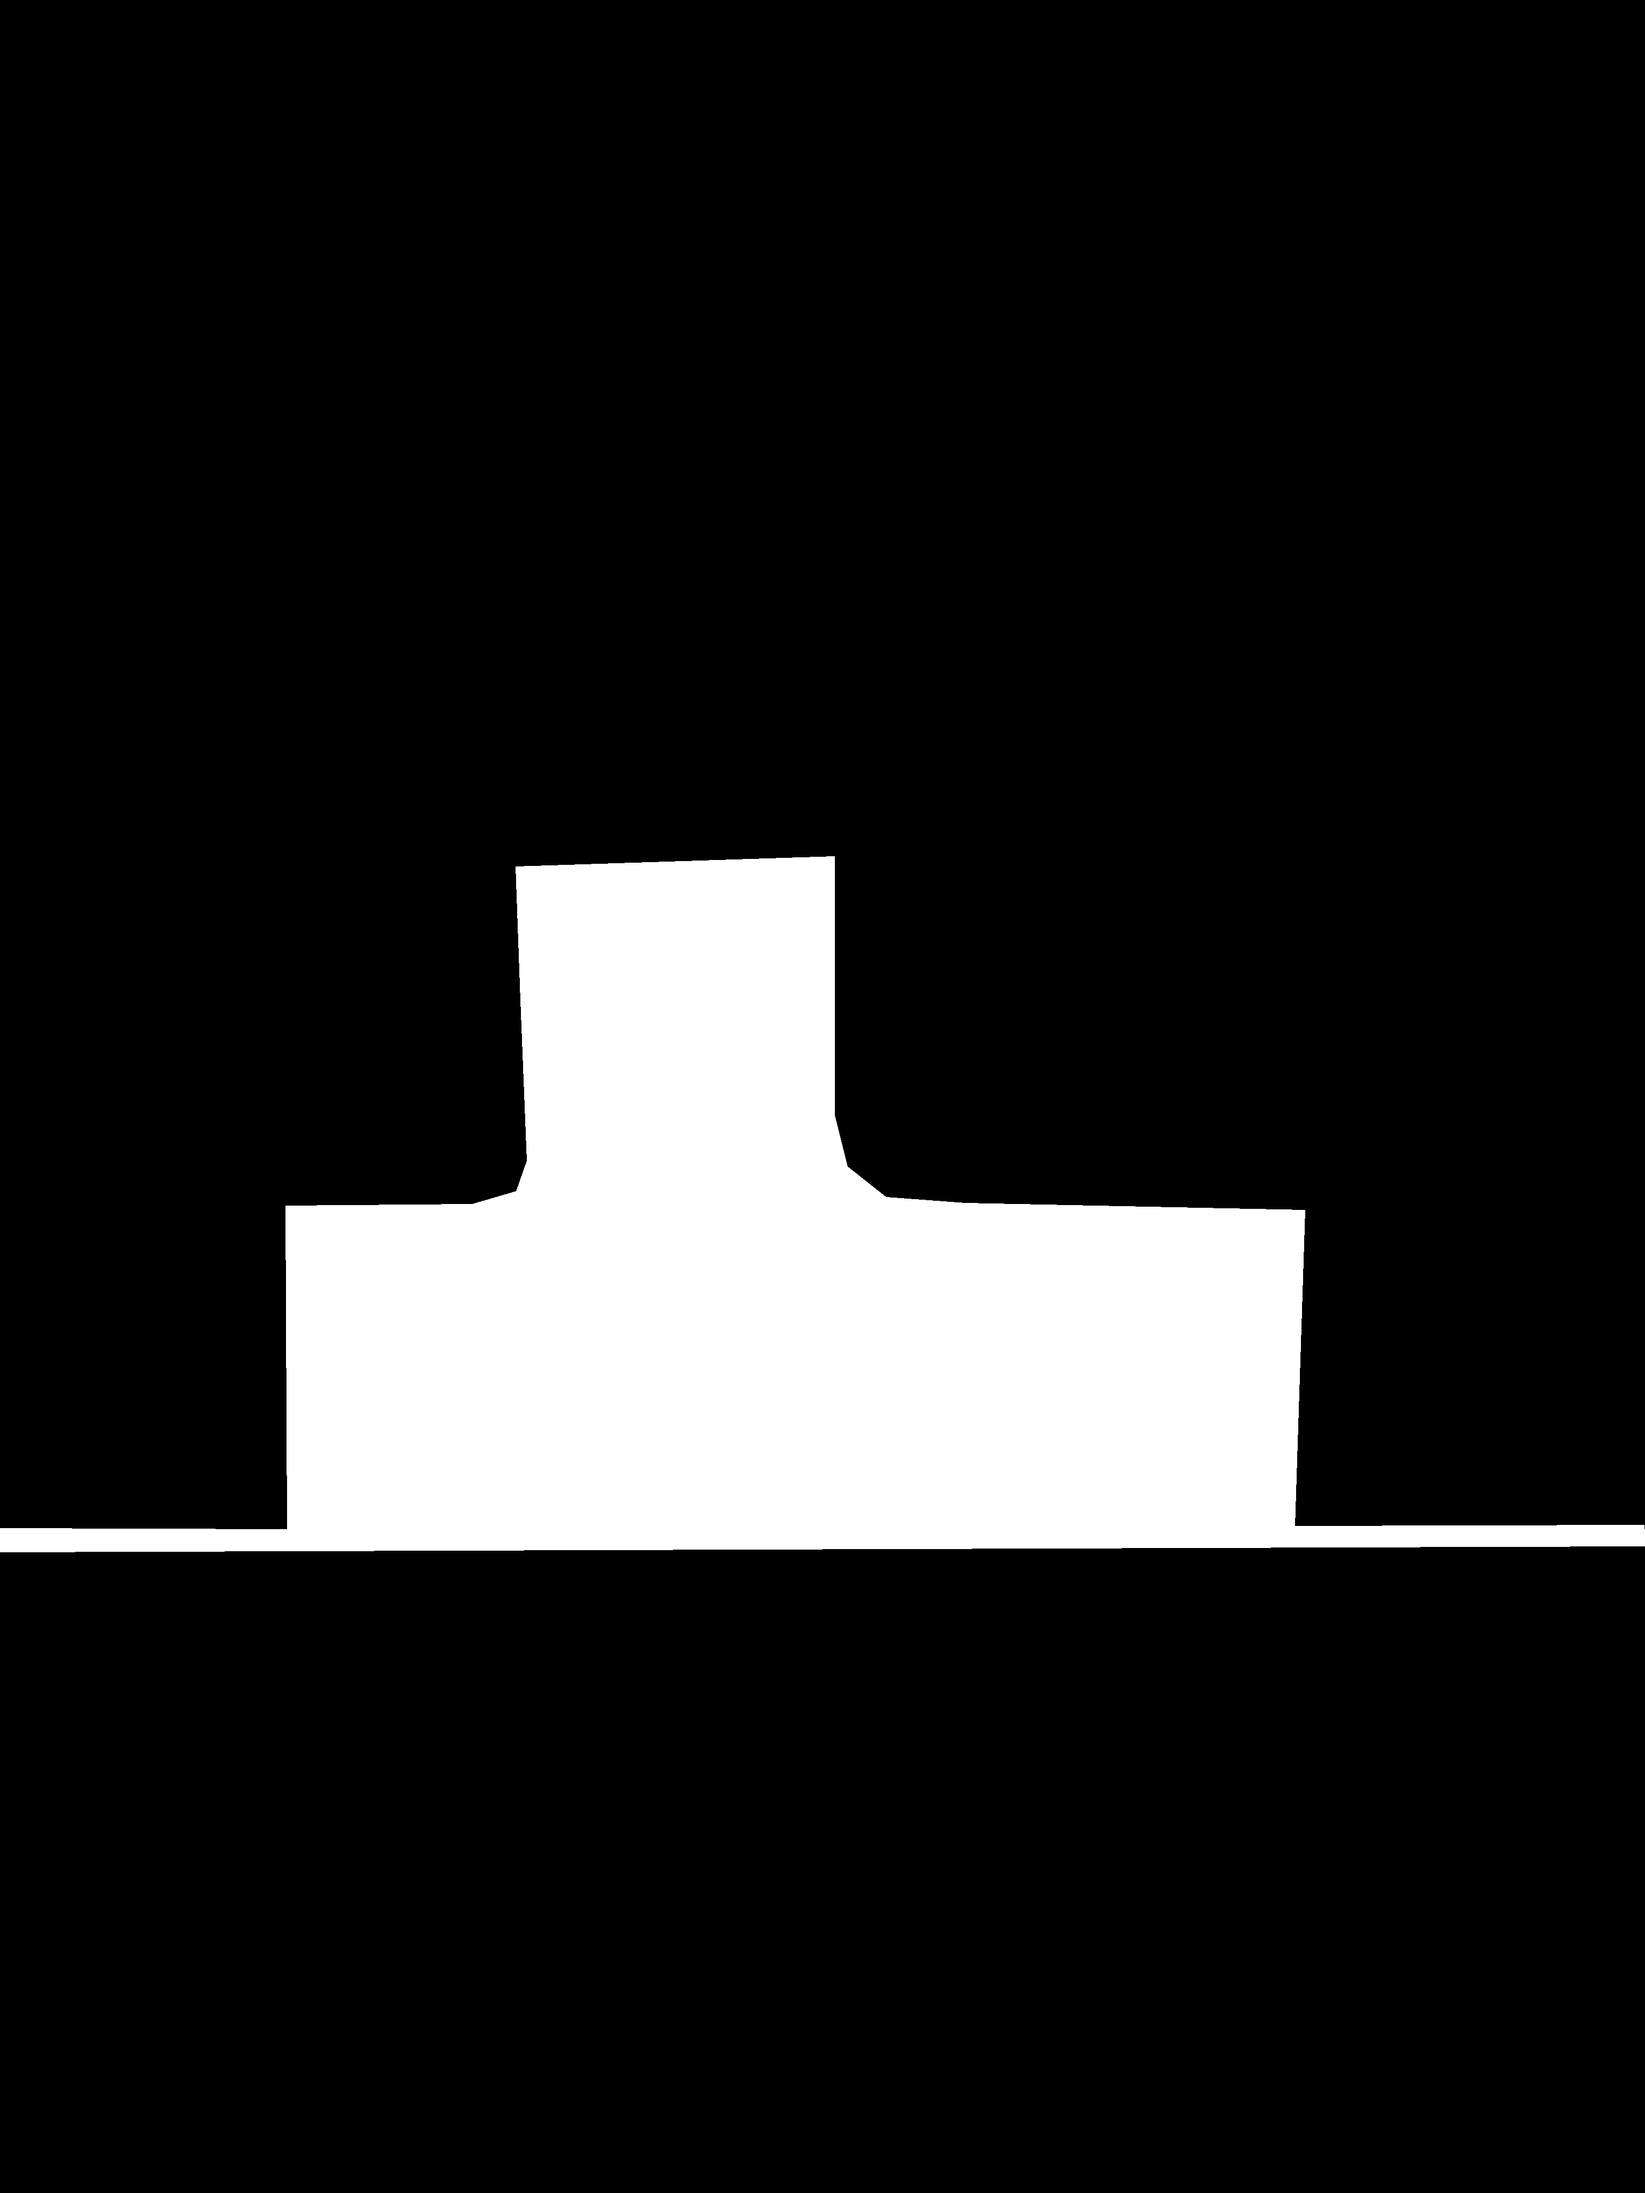
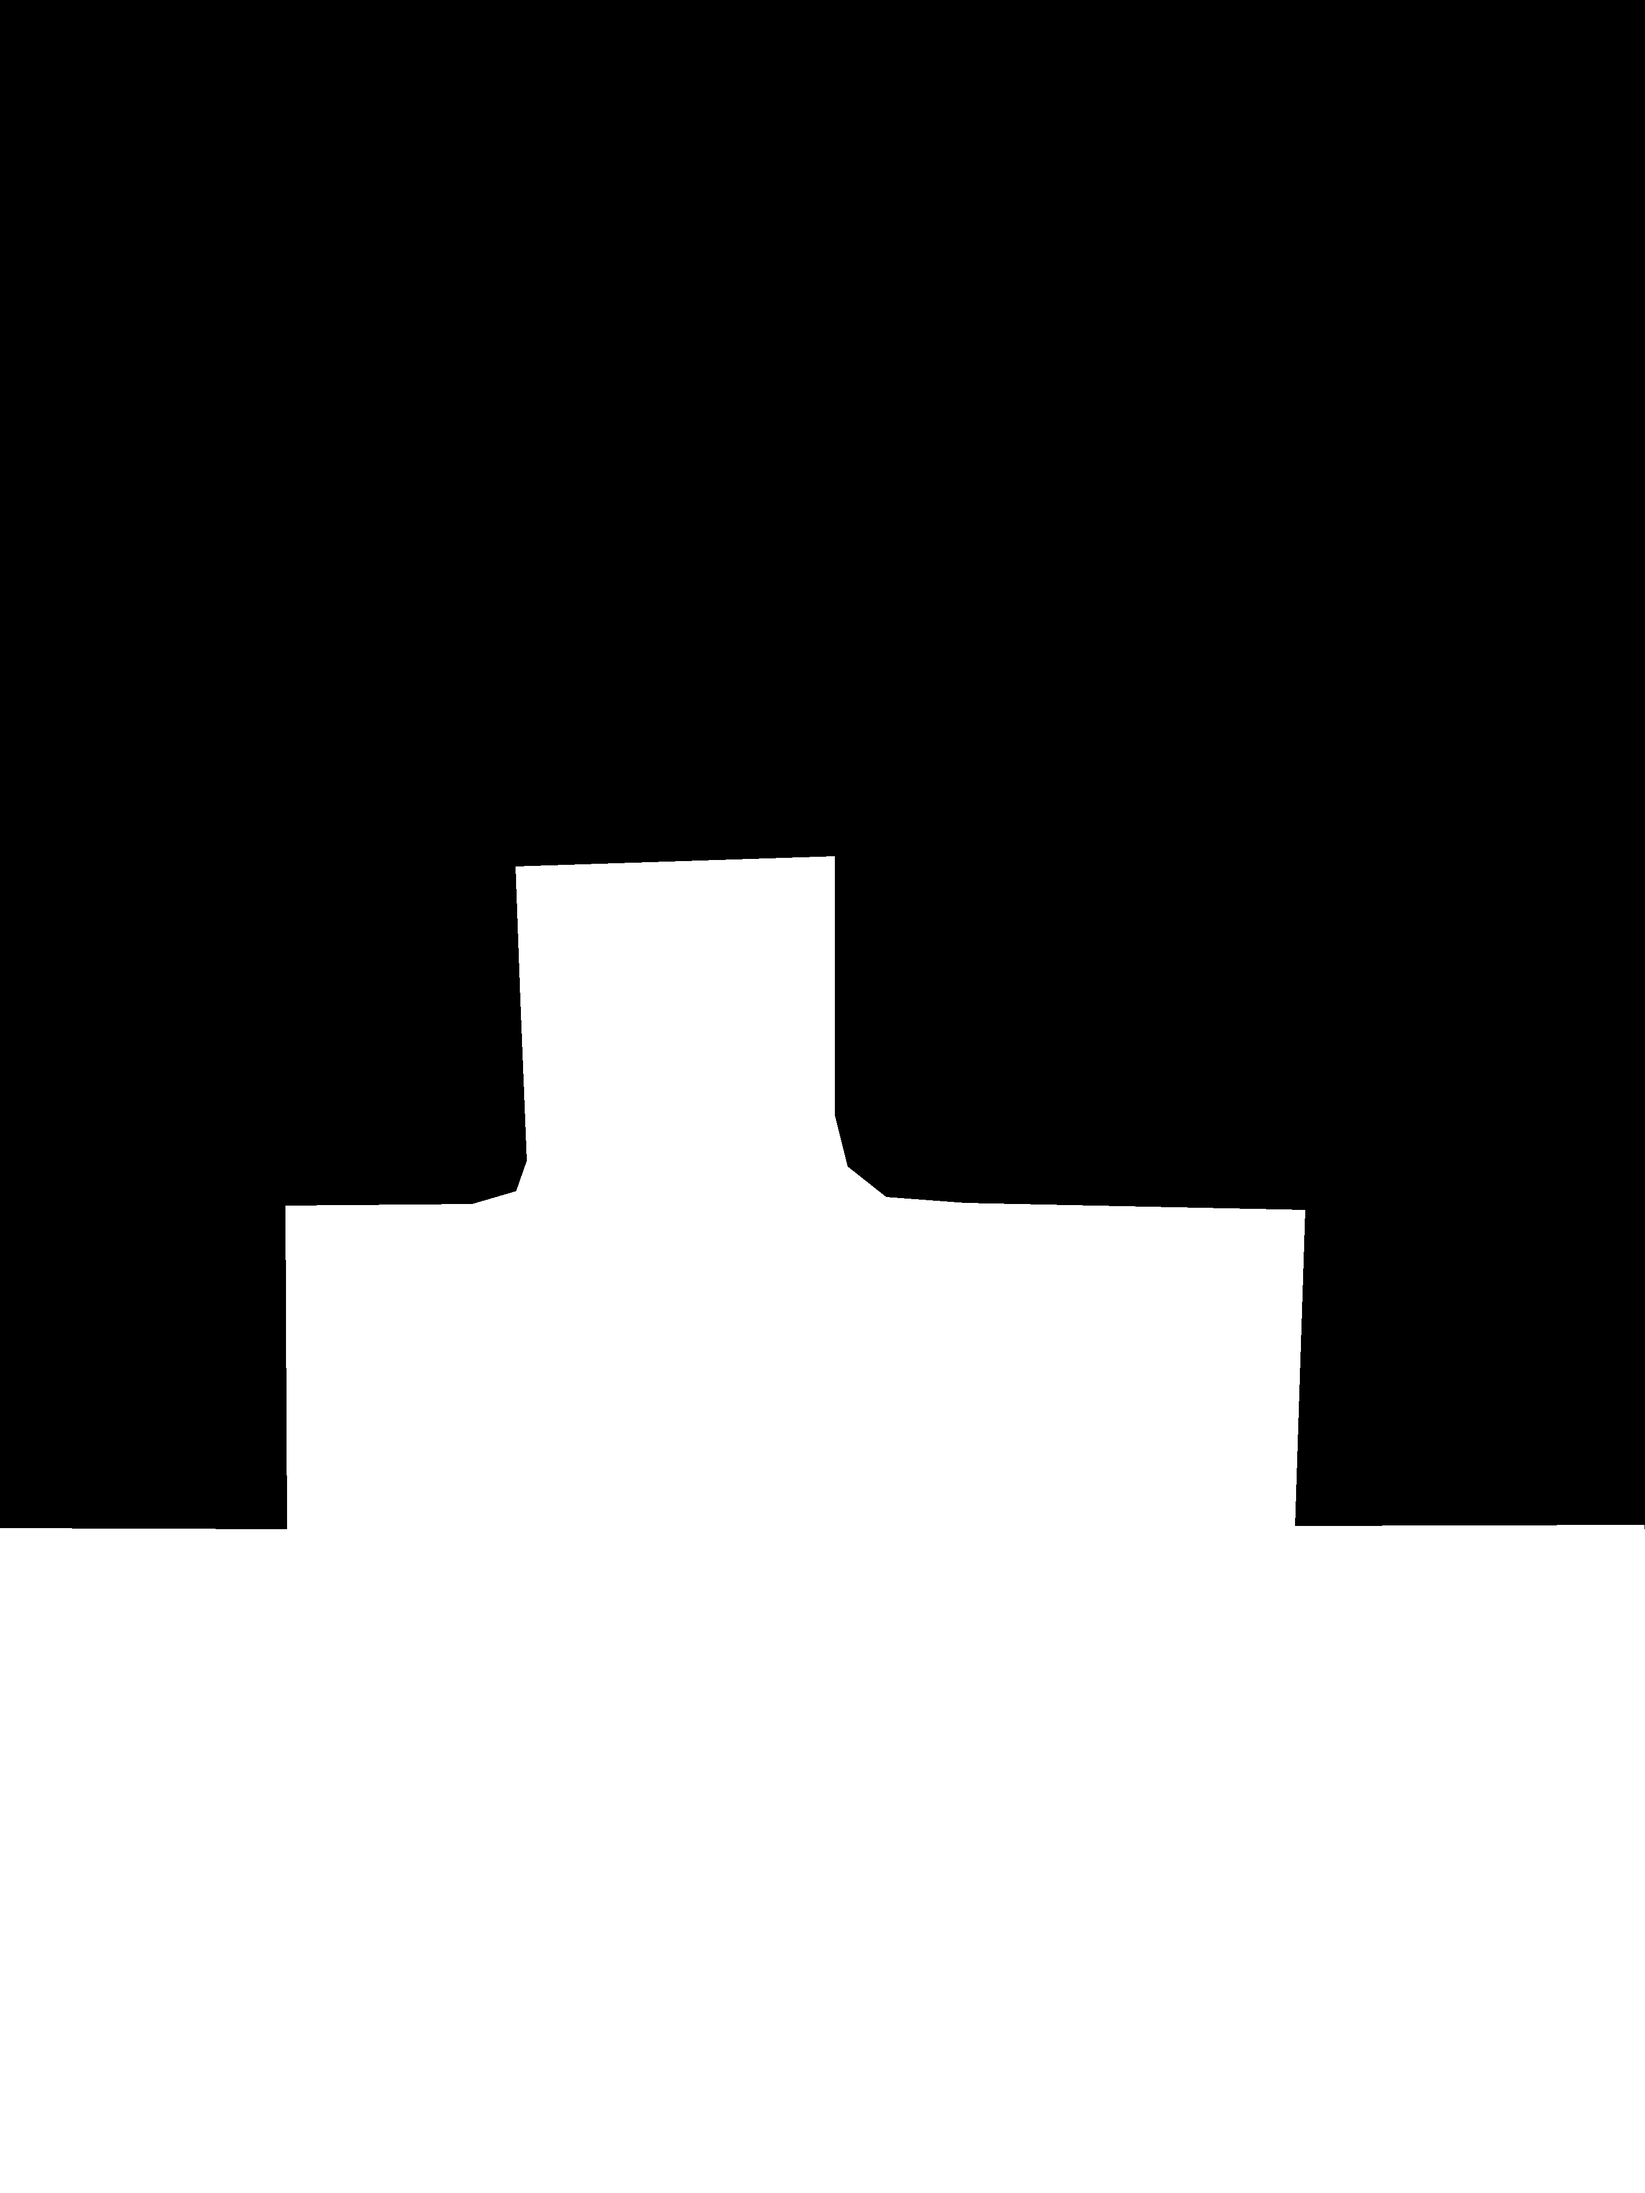
adding edge distance evalution, currently not done

Changed region(s): [[0.0, 0.6848, 1.0, 1.0]]

diff --git a/evaluation.py b/evaluation.py
@@ -1,16 +1,46 @@
 # Module for all of our test functions, which returns quantitative metrics for the pipeline.py processing steps
+from math import dist
 
-def mean_edge_distance(contour1, contour2):
+import numpy as np
+import cv2
+from scipy import ndimage as ndi
+import matplotlib.pyplot as plt
+
+
+def mean_edge_distance(result, benchmark):
     """Compute the mean edge distance between two contours."""
-    # Compute the distance from each point in contour1 to the closest point in contour2
-    distances = []
-    for point1 in contour1:
-        min_distance = float('inf')
-        for point2 in contour2:
-            distance = ((point1[0][0] - point2[0][0]) ** 2 + (point1[0][1] - point2[0][1]) ** 2) ** 0.5
-            if distance < min_distance:
-                min_distance = distance
-        distances.append(min_distance)
+    intersection = abs(result.astype(np.int32) - benchmark.astype(np.int32))
+    mask, distances = ndi.distance_transform_edt(intersection, sampling=None, return_distances=True, return_indices=False, distances=None, indices=None) # as used in activity_07 task 3.2
+
+    plt.figure(figsize=(4, 4))
+
+    plt.subplot(1, 4, 1)
+    plt.imshow(result, cmap='gray')
+    plt.axis('off')
+    plt.title('result')
+
+    plt.subplot(1, 4, 2)
+    plt.imshow(benchmark, cmap='gray')
+    plt.axis('off')
+    plt.title('benchmark')
+
+    plt.subplot(1, 4, 3)
+    plt.imshow(intersection, cmap='gray')
+    plt.axis('off')
+    plt.title('intersection')
+
+    plt.subplot(1, 4, 4)
+    plt.imshow(distances, cmap='gray')
+    plt.axis('off')
+    plt.title('distances')
     
-    # Return the mean of the distances
-    return sum(distances) / len(distances) if distances else 0.0
+    plt.show()
+    
+    return None
+
+def IoU(result, benchmark):
+    """Compute the Intersection over Union (IoU) between two binary masks."""
+    intersection = np.logical_and(result, benchmark)
+    union = np.logical_or(result, benchmark)
+    iou_score = np.sum(intersection) / np.sum(union)
+    return iou_score

diff --git a/cvat.py b/cvat.py
@@ -9,22 +9,21 @@ import xml.etree.ElementTree as ET
 
 # Argument: filename (without extension) of the CVAT XML file to load (e.g. "shadow2" for "shadow2.xml")
 def load_image(filename):
-    outdir = os.path.join("cvat_masks", f"{name}_mask.png")
+    outdir = os.path.join("cvat_masks", f"{filename}_mask.png")
     if os.path.isfile(outdir):
         print("Benchmark image already exists")
-        return cv2.imread(out, cv2.IMREAD_UNCHANGED)
+        return cv2.imread(outdir, cv2.IMREAD_UNCHANGED)
     else:
-        cv2.imwrite(out, mask)
-        print("Benchmark image saved", out)
-
-    xml_path = os.path.join("xml", f"{filename}.xml")
-    root = ET.parse(xml_path).getroot()
-    for image in root.iter("image"):
-        name = os.path.splitext(image.get("name"))[0]
-        h, w = int(image.get("height")), int(image.get("width"))
-        mask = np.zeros((h, w), np.uint8)
-        for poly in image.iter("polygon"):
-            pts = [tuple(map(float, p.split(","))) for p in poly.get("points").split(";")]
-            cv2.fillPoly(mask, [np.round(pts).astype(np.int32)], 255)
-        
+        print("Benchmark image does not exist, generating...")
+        xml_path = os.path.join("xml", f"{filename}.xml")
+        root = ET.parse(xml_path).getroot()
+        for image in root.iter("image"):
+            name = os.path.splitext(image.get("name"))[0]
+            h, w = int(image.get("height")), int(image.get("width"))
+            mask = np.zeros((h, w), np.uint8)
+            for poly in image.iter("polygon"):
+                pts = [tuple(map(float, p.split(","))) for p in poly.get("points").split(";")]
+                cv2.fillPoly(mask, [np.round(pts).astype(np.int32)], 255)
+            cv2.imwrite(outdir, mask)
+            return mask
         

diff --git a/pipeline.py b/pipeline.py
@@ -10,6 +10,7 @@ import cvat
 import shapes
 import image_processing as ip
 import display_results as disp
+import evaluation as eval
 
 # parameters
 sigma = 10.0
@@ -25,7 +26,7 @@ filename = sys.argv[1] if len(sys.argv) > 1 else "testshadow"
 
 # Read image
 img = cv2.imread(f"images/{filename}.png", cv2.IMREAD_UNCHANGED)
-benchmark = cvat.CVATBenchmark(f"images/{filename}.xml")
+benchmark = cvat.load_image(filename)
 
 # Check the result
 print(type(img))        # <class 'numpy.ndarray'>
@@ -54,6 +55,7 @@ img_filled = img_cont
 img_poly = img_filled
 
 # Display each step of the pipeline
-disp.images(img, img_gray, img_thresh, img_cont, img_filled, img_poly)
+#disp.images(img, img_gray, img_thresh, img_cont, img_filled, img_poly)
 
-mean_dist = ip.mean_edge_distance(img_cont, img_poly)
+eval.mean_edge_distance(img_poly, benchmark)
+#print(f"Mean edge distance between processed image and benchmark: {mean_dist:.2f} pixels")
